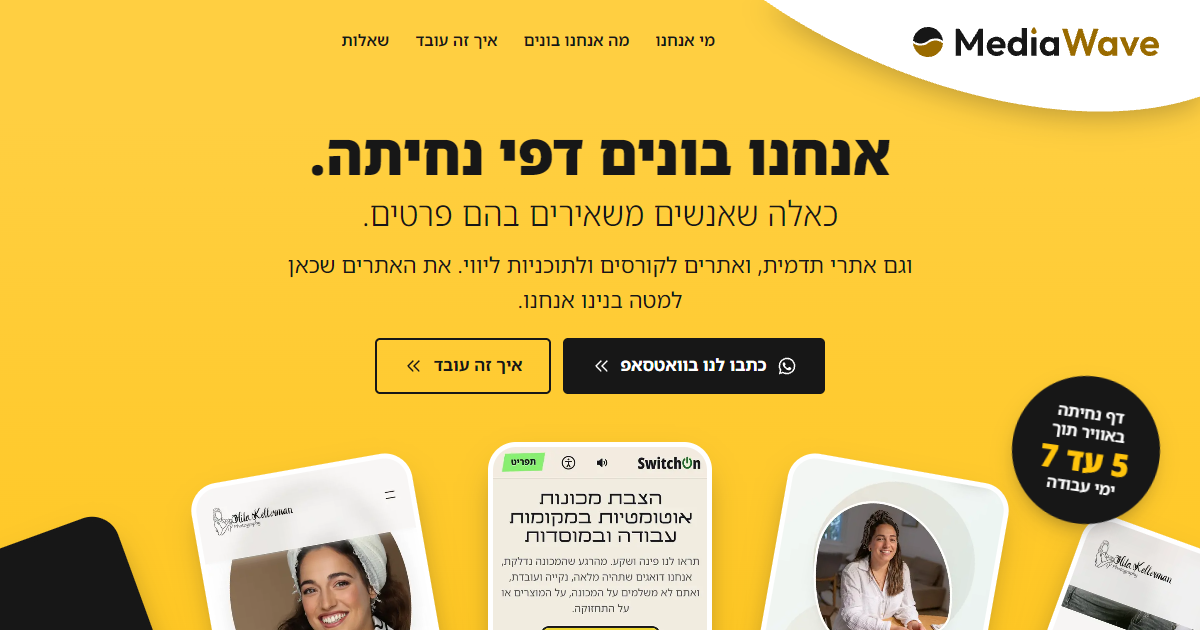
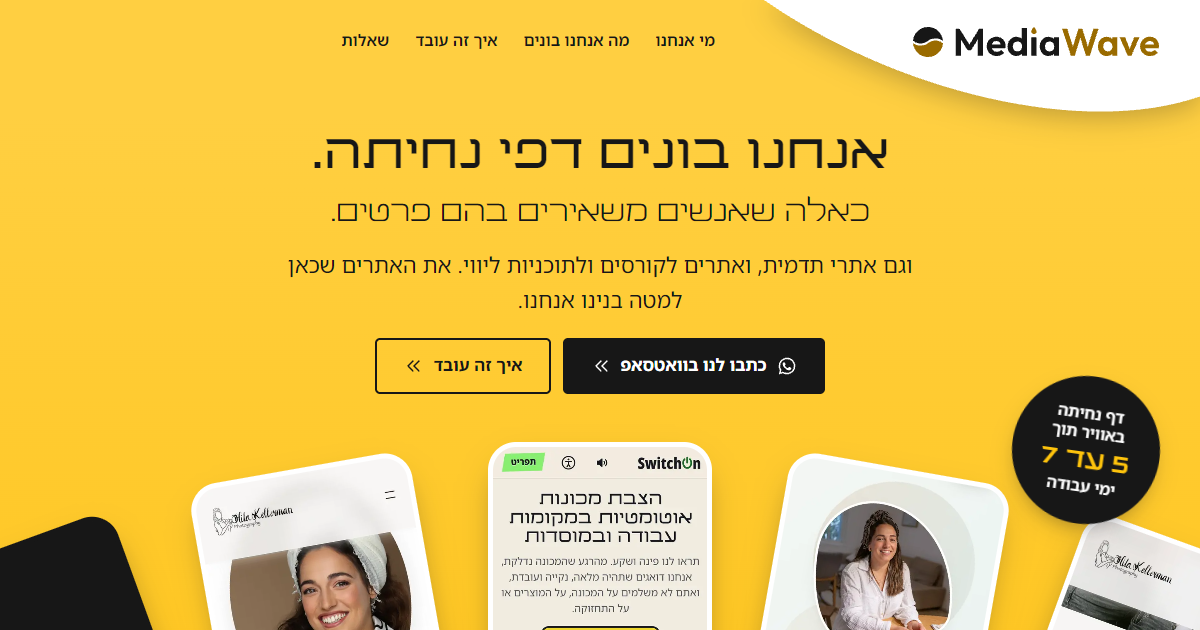
feat: headings back in mediawave-font1 Bold; the text face awaits a pick (D247)
Every heading is in the studio's own face, its Bold, with its Regular for the
lighter lead-ins; sizes one step up; both files preloaded. Three renders of the
text-face options (Noto, EFT Lampner, IBM Plex) are in design/audit/sun/fonts.

Changed region(s): [[0.2467, 0.2111, 0.74, 0.3619], [0.8633, 0.6937, 0.9558, 0.754]]

diff --git a/src/sun/sun.css b/src/sun/sun.css
@@ -25,8 +25,9 @@
   /* the logo on white: ink, and a dark amber from the yellow family that still reads as text (4.9:1) */
   --logo-b: #9A6B00;
   --logo-tag: var(--ink-2);
-  /* headings: Noto Sans Hebrew at its heaviest, slightly narrowed; the text is the same family, so one font file serves the page */
-  --display: "MW Noto", "MW Noto Fallback", Arial, sans-serif;
+  /* headings (D247): mediawave-font1, the studio's own face, in its Bold; the lighter lead-ins in its Regular.
+     The text face is still open: Nati picks it from rendered options. */
+  --display: "mediawave-font1", "mediawave-font1 Fallback", "MW Noto", "MW Noto Fallback", Arial, sans-serif;
   --text: "MW Noto", "MW Noto Fallback", Arial, sans-serif;
   --gutter: 16px;
   --ease: cubic-bezier(0.16, 1, 0.3, 1);
@@ -57,17 +58,17 @@ html.disable-animations *, html.disable-animations *::before, html.disable-anima
 .skip:focus { top: 12px; }
 
 /* ---------- type ---------- */
-.h1, .h2, .h3, .h4 { font-family: var(--display); font-weight: 900; font-stretch: 90%; text-wrap: balance; }
-.h2 { font-weight: 300; }
-.h2 b { font-weight: 900; }
-.h3, .h4 { font-weight: 800; }
-.h1 { font-size: clamp(2.25rem, 9.6vw, 5rem); line-height: 1.08; }
+.h1, .h2, .h3, .h4 { font-family: var(--display); font-weight: 700; text-wrap: balance; }
+.h2 { font-weight: 400; }
+.h2 b { font-weight: 700; }
+/* mediawave-font1 is set at 83% of its em (shot-fonts.css), so the sizes are a step larger than the numbers suggest */
+.h1 { font-size: clamp(2.5rem, 11.2vw, 5.5rem); line-height: 1.08; }
 .h1--page { font-size: clamp(2.125rem, 7vw, 3.75rem); }
 /* the heading (D245): one heavy statement, then a lighter sentence. No highlight, no box: black on the yellow. */
-.h1__rest { display: block; margin-block-start: .2em; font-size: .6em; font-weight: 300; line-height: 1.2; }
-.h2 { font-size: clamp(1.875rem, 6.4vw, 3.25rem); line-height: 1.12; margin-block-end: 28px; }
-.h3 { font-size: clamp(1.4375rem, 3vw, 1.75rem); line-height: 1.2; }
-.h4 { font-size: 1.1875rem; line-height: 1.3; }
+.h1__rest { display: block; margin-block-start: .2em; font-size: .6em; font-weight: 400; line-height: 1.2; }
+.h2 { font-size: clamp(2.125rem, 7.4vw, 3.625rem); line-height: 1.12; margin-block-end: 28px; }
+.h3 { font-size: clamp(1.5625rem, 3.2vw, 1.875rem); line-height: 1.2; }
+.h4 { font-size: 1.3125rem; line-height: 1.3; }
 .lede { font-size: clamp(1.125rem, 2.2vw, 1.375rem); line-height: 1.6; max-width: 38em; text-wrap: pretty; }
 
 /* ---------- layout ---------- */
@@ -149,7 +150,7 @@ html.menu-open .head { background: var(--paper); }
 /* the menu: a sheet of paper under the header; rows open with one chevron */
 .sheet { position: absolute; inset-inline: 0; top: 100%; background: var(--paper); padding: 4px var(--gutter) 22px; border-radius: 0 0 24px 24px; box-shadow: 0 26px 30px -20px rgba(23, 24, 28, .35); }
 .sheet nav { display: grid; margin-block-end: 18px; }
-.sheet nav a { display: flex; align-items: center; justify-content: space-between; min-height: 54px; font: 800 1.25rem/1.2 var(--display); font-stretch: 90%; border-block-end: 1px solid var(--line); }
+.sheet nav a { display: flex; align-items: center; justify-content: space-between; min-height: 54px; font: 700 1.25rem/1.2 var(--display); border-block-end: 1px solid var(--line); }
 .sheet nav a svg { opacity: .55; }
 @media (min-width: 1100px) {
   .head__blob { width: 436px; height: 124px; }
@@ -184,7 +185,7 @@ html.menu-open .head { background: var(--paper); }
 .hero__note { font-size: .9375rem; font-weight: 600; }
 .hero__stage { position: relative; margin-block-start: 34px; }
 .sticker { position: absolute; z-index: 3; top: -34px; inset-inline-start: max(10px, 50% - 560px); width: 112px; height: 112px; display: grid; place-items: center; text-align: center; border-radius: 50%; background: var(--blue); color: #fff; font-size: .8125rem; font-weight: 600; line-height: 1.2; transform: rotate(8deg); box-shadow: 0 10px 24px -10px rgba(23, 24, 28, .5); pointer-events: none; }
-.sticker b { display: inline-block; font: 900 1.5rem/1.1 var(--display); font-stretch: 90%; color: var(--sun); }
+.sticker b { display: inline-block; font: 700 1.5rem/1.1 var(--display); color: var(--sun); }
 @media (min-width: 900px) {
   .hero { padding-block-start: 40px; }
   .hero__text { gap: 22px; }
@@ -208,7 +209,7 @@ html.menu-open .head { background: var(--paper); }
 .wheel__slot:nth-child(even) { display: none; }
 .wheel__card { display: block; cursor: inherit; width: 100%; height: 100%; overflow: hidden; border-radius: 22px; background: #fff; border: 4px solid #fff; box-shadow: 0 16px 34px -14px rgba(23, 24, 28, .55); -webkit-user-drag: none; }
 .wheel__card img { width: 100%; height: 100%; object-fit: cover; object-position: 50% 0; border-radius: 18px; pointer-events: none; }
-.wheel__card--next { display: grid; place-content: center; justify-items: center; gap: 14px; text-align: center; background: var(--ink); border-color: var(--ink); color: #fff; font: 900 1.5rem/1.15 var(--display); font-stretch: 90%; }
+.wheel__card--next { display: grid; place-content: center; justify-items: center; gap: 14px; text-align: center; background: var(--ink); border-color: var(--ink); color: #fff; font: 700 1.5rem/1.15 var(--display); }
 .wheel__card--next b { font-size: 2.25rem; color: var(--sun); }
 @media (min-width: 600px) { .wheel { --cw: 190px; --ch: 380px; --R: 620px; } }
 @media (min-width: 900px) {
@@ -232,8 +233,8 @@ html.disable-animations.sun-open .sticker { opacity: 1; transform: rotate(8deg);
 .about__line { font-size: clamp(1.125rem, 2.2vw, 1.3125rem); line-height: 1.7; margin-block-end: 18px; max-width: 36em; text-wrap: pretty; }
 /* the last line (D246): a light sentence, then the point, large. A yellow bar at the reading side holds them. */
 .about__close { margin-block-start: 36px; padding-inline-start: 20px; border-inline-start: 6px solid var(--sun); display: grid; gap: 6px; }
-.about__close span { font: 300 clamp(1.25rem, 4.8vw, 1.625rem)/1.3 var(--display); }
-.about__close b { font: 900 clamp(2.25rem, 9.6vw, 3.5rem)/1.05 var(--display); font-stretch: 90%; }
+.about__close span { font: 400 clamp(1.25rem, 4.8vw, 1.625rem)/1.3 var(--display); }
+.about__close b { font: 700 clamp(2.25rem, 9.6vw, 3.5rem)/1.05 var(--display); }
 
 /* ---------- what we build: three ring circles (Libra), a name and one line each ---------- */
 .kinds { display: grid; gap: 34px; }
@@ -255,7 +256,7 @@ html.disable-animations.sun-open .sticker { opacity: 1; transform: rotate(8deg);
 /* ---------- process: one line from the first call to the day it is live; the stops sit on it ---------- */
 .route { border-inline-start: 2px solid var(--ink); margin-inline-start: 28px; padding-inline-start: 46px; display: grid; gap: 34px; }
 .route__stop { position: relative; }
-.route__n { position: absolute; inset-inline-start: -75px; top: -10px; display: grid; place-items: center; width: 56px; height: 56px; border-radius: 50%; background: #fff; color: var(--ink); font: 300 1.75rem/1 var(--display); box-shadow: 0 0 0 5px #fff, 0 0 0 7px var(--ink); }
+.route__n { position: absolute; inset-inline-start: -75px; top: -10px; display: grid; place-items: center; width: 56px; height: 56px; border-radius: 50%; background: #fff; color: var(--ink); font: 400 1.75rem/1 var(--display); box-shadow: 0 0 0 5px #fff, 0 0 0 7px var(--ink); }
 .route__stop p { margin-block-start: 6px; line-height: 1.6; }
 .route__time { margin-block-start: 36px; font-weight: 700; }
 @media (min-width: 900px) {
@@ -269,8 +270,8 @@ html.disable-animations.sun-open .sticker { opacity: 1; transform: rotate(8deg);
 .launch { min-height: 118px; margin: 40px auto 0; max-width: 560px; display: grid; gap: 4px; align-content: center; text-align: center; padding: 18px 20px; background: #fff; border-radius: 8px; box-shadow: 0 16px 30px -18px rgba(23, 24, 28, .5); }
 .launch:empty { min-height: 164px; background: none; box-shadow: none; }
 @media (min-width: 540px) { .launch:empty { min-height: 126px; } }
-.launch b { font: 300 1.125rem/1.4 var(--display); }
-.launch span { font: 800 clamp(1.1875rem, 4.6vw, 1.5rem)/1.3 var(--display); font-stretch: 90%; }
+.launch b { font: 400 1.125rem/1.4 var(--display); }
+.launch span { font: 700 clamp(1.1875rem, 4.6vw, 1.5rem)/1.3 var(--display); }
 .launch strong { background: linear-gradient(var(--sun), var(--sun)) 50% 92% / 100% 36% no-repeat; padding-inline: .1em; white-space: nowrap; }
 .launch small { margin-block-start: 6px; font-size: .8125rem; line-height: 1.5; color: var(--ink-2); }
 .launch + .band__cta { margin-block-start: 28px; }
@@ -278,7 +279,7 @@ html.disable-animations.sun-open .sticker { opacity: 1; transform: rotate(8deg);
 /* ---------- faq ---------- */
 .faq { border-block-start: 2px solid var(--ink); }
 .faq__item { border-block-end: 2px solid var(--ink); }
-.faq__item summary { display: flex; align-items: center; justify-content: space-between; gap: 16px; min-height: 68px; padding-block: 12px; cursor: pointer; list-style: none; font: 900 1.1875rem/1.35 var(--display); font-stretch: 90%; }
+.faq__item summary { display: flex; align-items: center; justify-content: space-between; gap: 16px; min-height: 68px; padding-block: 12px; cursor: pointer; list-style: none; font: 700 1.1875rem/1.35 var(--display); }
 .faq__item summary::-webkit-details-marker { display: none; }
 .faq__item summary svg { flex: none; width: 24px; height: 24px; transition: transform .25s var(--ease); }
 .faq__item[open] summary svg { transform: rotate(-90deg); }
@@ -326,7 +327,7 @@ html.disable-animations.sun-open .sticker { opacity: 1; transform: rotate(8deg);
 .foot__in > div:last-child .foot__h { width: 100%; }
 .foot__brand .mw-logo { height: 34px; width: auto; }
 .foot__brand p { margin-block-start: 14px; font-weight: 600; max-width: 18em; text-wrap: balance; }
-.foot__h { font: 900 1.0625rem/1.3 var(--display); font-stretch: 90%; margin-block-end: 6px; }
+.foot__h { font: 700 1.0625rem/1.3 var(--display); margin-block-end: 6px; }
 .foot nav a, .foot__in > div > a { display: flex; align-items: center; min-height: 44px; font-weight: 500; text-wrap: balance; }
 .foot__in a { width: fit-content; min-width: 44px; }
 @media (hover: hover) { .foot__in a:hover, .foot__legal a:hover { text-decoration: underline; text-underline-offset: 4px; } }
@@ -376,7 +377,7 @@ html.menu-open .tab { opacity: 0; pointer-events: none; }
 
 /* the legal text keeps its own markup (TermsBody and friends); only its dress is set here */
 .legal section { margin-block-end: 44px; }
-.legal h2 { font: 900 1.5rem/1.25 var(--display); font-stretch: 90%; margin-block-end: 14px; padding-block-end: 10px; border-block-end: 2px solid var(--ink); }
+.legal h2 { font: 700 1.5rem/1.25 var(--display); margin-block-end: 14px; padding-block-end: 10px; border-block-end: 2px solid var(--ink); }
 .legal h3 { font-weight: 700; font-size: 1.125rem; margin-block: 22px 8px; }
 .legal p { margin-block-end: 12px; }
 .legal ul, .legal ol { list-style: disc; padding-inline-start: 1.3em; margin-block-end: 14px; }

diff --git a/DECISIONS.rtl.md b/DECISIONS.rtl.md
@@ -596,3 +596,10 @@
   - **הלוגו:** הצורה בפינה העליונה לבנה, והלוגו בתוכה בשחור ובענבר, כמו בפוטר. הצורה עצמה לא השתנתה.
   - **משפט הסיום של "נעים מאוד":** הנוסח של נתי, מילה במילה. העיצוב: המשפט הראשון במשקל דק, "שיפנו אליכם." גדול וכבד מתחתיו, ופס צהוב בצד הקריאה שמחזיק את שניהם. המרקר הצהוב שהיה מאחורי המילים ירד.
   - **כלל חדש לכל הטקסטים: בלי נקודתיים.** נתי קורא אותן כהרגל של מכונה. במקומן נקודה ומשפט חדש, פסיק, או ניסוח מחדש. תוקן בדף הבית, בהודעת הוואטסאפ ("הטלפון שלי 050..." במקום "טלפון לחזרה: 050..."), בתוויות של הטופס, בהודעת השגיאה, ובכל דפי השירות (18 שורות ב-services.ts ואחת ב-portfolio-examples.ts). הטקסטים המשפטיים (תקנון, פרטיות, נגישות) לא נגעו.
+
+- **D247 · הכותרות חוזרות ל-mediawave-font1, והפונט של הטקסט בבחירה (נתי, 12.11):** "תממש את הפונטים שהיו באתר בגרסה הקודמת. שלא יהיו פונטים גנריים. תממש את הפונט mediawave שהיה, שיהיה bold, ובנוסף תציע לי עוד שילוב של פונט נוסף מתוך תיקיית fonts ב-onedrive."
+  - **נעשה:** כל הכותרות ב-mediawave-font1 Bold, והחלקים הקלים שלפני הבולד ב-Regular שלו (כמו ב-D231). הגדלים עלו בדרגה, כי הפונט מוגדר ב-83% מהגודל שלו. הפונט נטען מראש (שני קבצים של 6KB).
+  - **זה מחליף את D237** בעניין הפונט: שם Noto 900 נבחר כי font1 נראה דק לאתר הזה. נתי רוצה את הפונט של המותג.
+  - **פתוח, מחכה לבחירה של נתי מתוך תמונות:** הפונט של הטקסט הרץ. A: Noto Sans Hebrew (כמו באתר הקודם, והמצב היום בתצוגה המקדימה). B: EFT Lampner מהתיקייה שלו (Light לטקסט, Regular להדגשה, Bold לכפתורים). C: IBM Plex Sans Hebrew. הצילומים נעשו על הדף האמיתי ברוחב טלפון; קובצי EFT הוזרקו רק לדפדפן מקומי ולא נכנסו לריפו.
+  - **לפני ש-Lampner עולה לאתר:** לוודא שהרישיון של EFT מתיר שימוש באתר (הקבצים נהיים ניתנים להורדה), ולהמיר ל-woff2.
+  - **מה נפסל מהתיקייה לטקסט רץ:** Ole Hadash הוא כתב יד ולא נקרא בפסקאות; Artzisraeli, Asaf, OffSet, Pnina ו-Mashat הם פונטי כותרת כבדים; ל-Tehilot, Tirosh ו-Betaamango יש משקל אחד, ואין להם בולד לכפתורים.

diff --git a/.context/NEXT-SESSION-PROMPT-MORIAH.rtl.md b/.context/NEXT-SESSION-PROMPT-MORIAH.rtl.md
@@ -3,8 +3,8 @@
 ממשיכים את העבודה על האתר החדש של mediawave.co.il מאותה נקודה שבה נתי עצר ב-12.11.2026.
 
 ## קודם כול, קרא בסדר הזה
-1. `.context/HANDOFF.md`, רק החלק העליון ("the statement site", D237 עד D246).
-2. `DECISIONS.rtl.md`, עשר ההחלטות האחרונות: D237 עד D246.
+1. `.context/HANDOFF.md`, רק החלק העליון ("the statement site", D237 עד D247).
+2. `DECISIONS.rtl.md`, אחת עשרה ההחלטות האחרונות: D237 עד D247.
 3. `src/sun/content.ts`: כל הטקסטים של דף הבית, במקום אחד.
 
 ## איפה העבודה
@@ -46,6 +46,9 @@
 8. תוצאות של לקוחות: אצל נעם זה המקטע החזק ביותר ("התוצאות שלהם"). אצלנו אין אותו כי אין נתונים. אם יש לקוח שמוכן לתת מספר אמיתי (פניות, מכירות), זה הדבר הראשון להוסיף.
 9. לפני פרודקשן: לעדכן את `DESIGN.md`, `PRODUCT.md` ו-"Current state" ב-`CLAUDE.md`, להריץ את `site-gate-audit`, לשים תג חזרה, ורק אז לדחוף עם אישור מפורש.
 
+## הפונט של הטקסט (D247), מחכה לבחירה של נתי
+הכותרות כבר ב-mediawave-font1 Bold. לטקסט הרץ נשלחו לנתי שלוש אפשרויות בתמונות: A Noto Sans Hebrew (המצב היום), B EFT Lampner, C IBM Plex Sans Hebrew. אם הוא בחר, מיישמים לפי ההוראות ב-HANDOFF תחת D247.
+
 ## החלטות שמחכות לנתי מסבב הביקורת (D242)
 - האם הבחירות בכלי הנגישות (טקסט גדול, ניגודיות, ללא אנימציות) צריכות להחזיק כשעוברים לדף אחר. היום כל טעינה מתחילה מחדש.
 - האם כתיבת הטקסט של דף נחיתה כלולה במחיר. היום כתוב "בתשלום נוסף", לפי השאלות והתקנון.
@@ -56,4 +59,4 @@
 ## איך לעבוד
 - כל שינוי: לבדוק ב-390 וב-1440, לוודא שאין גלילה אופקית ושאין שגיאות, ואז commit ודחיפה לענף כדי שהתצוגה המקדימה תתעדכן.
 - הדחיפה עובדת רק מהחשבון `mediawave-dev` (הפקודה בזיכרון הפרויקט, `mediawave-github-deploy`).
-- בסוף כל סבב: לעדכן את `.context/HANDOFF.md` ולהוסיף החלטה ממוספרת ל-`DECISIONS.rtl.md` (הבאה: D247).
+- בסוף כל סבב: לעדכן את `.context/HANDOFF.md` ולהוסיף החלטה ממוספרת ל-`DECISIONS.rtl.md` (הבאה: D248).

diff --git a/.context/HANDOFF.md b/.context/HANDOFF.md
@@ -40,6 +40,9 @@ He did not like the white wave ribbon at the top nor the main heading, its words
 ## D246, the same day
 The corner shape behind the logo is white (logo in ink and amber). The closing line of "נעים מאוד" is Nati's wording, "דף אחד, עם מטרה אחת בלבד. שיפנו אליכם.", set as a light sentence over a large heavy one beside a yellow bar. New standing rule from him: no colons in the copy, he reads them as a machine's habit; all of them were rewritten on the home page, in the WhatsApp message, the form labels, the error message and every service page (not in the legal texts).
 
+## D247, the same day
+Headings are back in mediawave-font1 (Bold, with its Regular for the lighter lead-ins), sizes one step up, both files preloaded. OPEN: the text face. Nati was sent three phone renders (A Noto as today, B EFT Lampner from his OneDrive folder, C IBM Plex Sans Hebrew) and has not picked yet. If he picks B: check that the EFT licence allows web embedding, convert the three Lampner TTFs (Light, Regular, Bold in `C:\Users\User\OneDrive\Fonts\עברית\Lampner`) to woff2 into public/fonts, declare them in a sun font sheet with Light as 400, Regular as 500-650, Bold as 700+, and keep Noto's Latin as the fallback (Lampner has no Latin).
+
 ## Waiting for Nati
 1. The direction itself, on the preview.
 2. The lines marked [קופי: נתי] in `src/sun/content.ts`.
